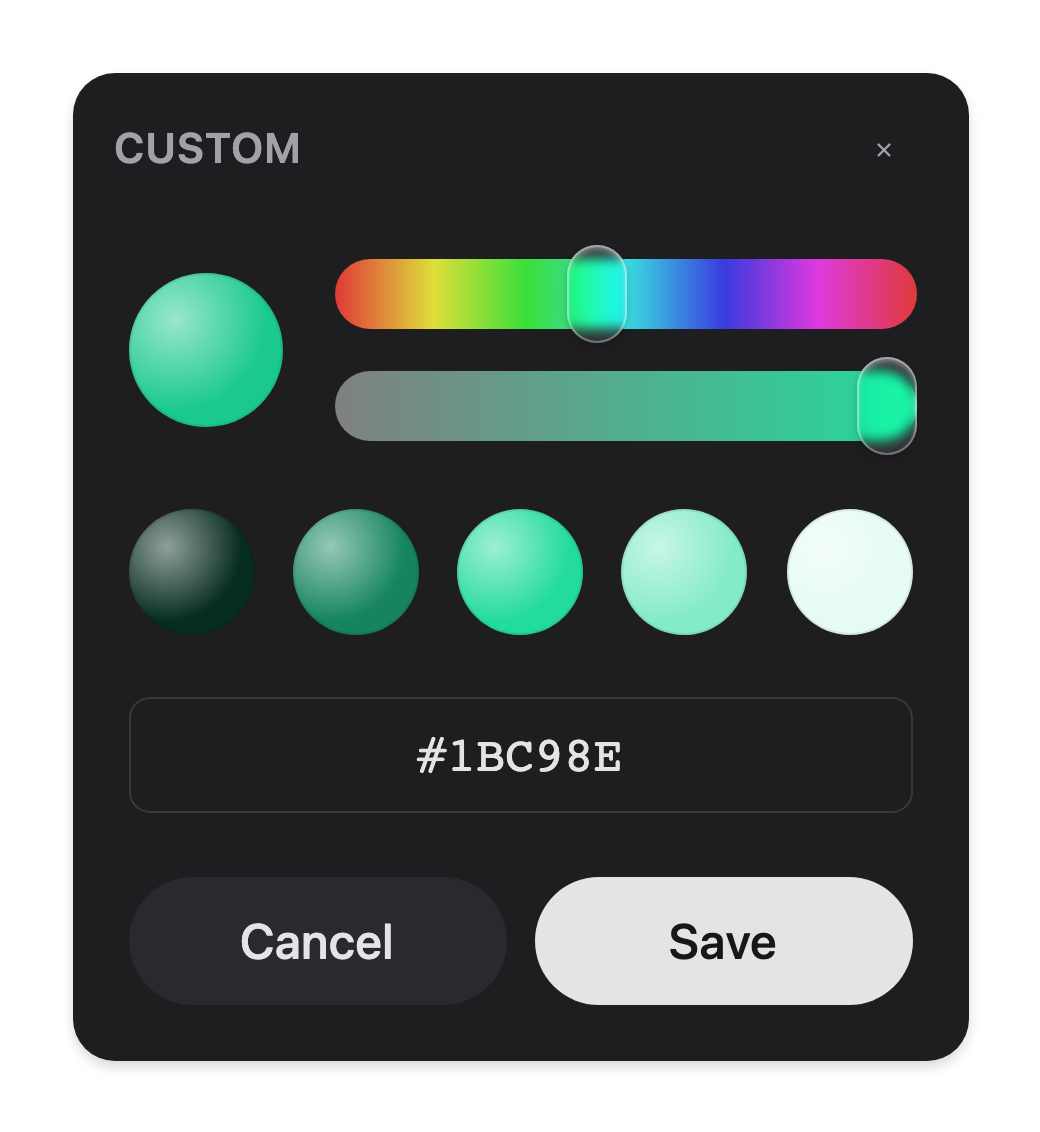
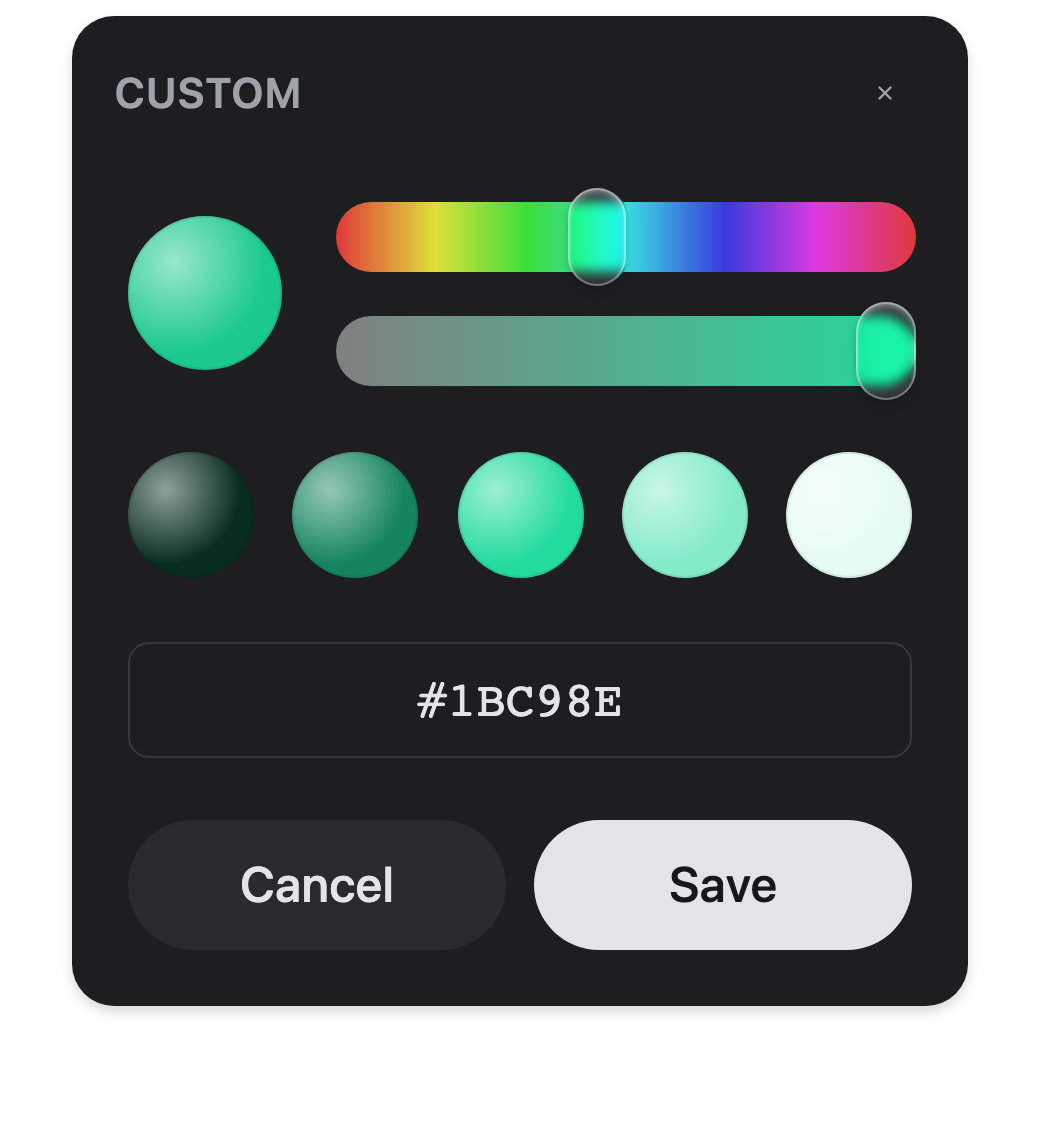
feat(docs): a settings panel to shoot, and five hero candidates
The resting shot was one row of one control, which showed nothing the tray shot
did not. The demo is a small Appearance panel now — three colour rows — because
the picker is a form control and only reads as one when it is sitting among
others.

That also fixes the tray placement. With the trigger against the card's right
edge the tray had nowhere to open into, so `shift()` dragged it back across the
card and it sat there at an angle to everything. Swatch-first, it opens cleanly
into the space beside its row.

Five hero compositions to pick from — trio, duo, layered, spotlight, and a
light/dark split — all generated by the same script. Four will be deleted once
one is chosen.

diff --git a/playground/src/Demo.vue b/playground/src/Demo.vue
@@ -3,27 +3,54 @@ import { ref } from 'vue'
 import { ColorPicker } from 'vue-tray-color-picker'
 
 /**
- * The single scene recorded for the readme GIF. Kept separate from App.vue so
- * the demo can be re-recorded without a scroll through every awkward case.
+ * The scene the readme stills are taken from. Kept apart from App.vue so shots
+ * can be retaken without a scroll through every awkward case.
  */
-const color = ref<string | null>('#1bc98e')
+const accent = ref<string | null>('#1bc98e')
+const surfaceColor = ref<string | null>('#f2f4f6')
+const brand = ref<string | null>('#8e5dca')
 </script>
 
 <template>
   <main class="stage">
-    <div class="card">
+    <!-- A settings panel rather than one lonely row: the picker is a form
+         control, and it reads as one when it is sitting among others. -->
+    <section class="card">
+      <h1 class="card__title">
+        Appearance
+      </h1>
+
       <div class="row">
-        <span class="row__label">Accent colour</span>
+        <span class="row__label">Accent</span>
         <ColorPicker
-          v-model="color"
+          v-model="accent"
           range="full"
           clearable
           default-color="#8a8a8f"
-          recent-key="demo:recent"
+          recent-key="demo:accent"
         />
       </div>
-      <code class="value">{{ color ?? 'null' }}</code>
-    </div>
+
+      <div class="row">
+        <span class="row__label">Surface</span>
+        <ColorPicker
+          v-model="surfaceColor"
+          range="full"
+          clearable
+          default-color="#f2f4f6"
+          recent-key="demo:surface"
+        />
+      </div>
+
+      <div class="row">
+        <span class="row__label">Brand</span>
+        <ColorPicker
+          v-model="brand"
+          range="full"
+          recent-key="demo:brand"
+        />
+      </div>
+    </section>
   </main>
 </template>
 
@@ -67,30 +94,35 @@ html.bare .stage {
 
 .card {
   display: grid;
-  gap: 1rem;
+  gap: 0.25rem;
   width: 20rem;
-  padding: 1.5rem;
+  padding: 1.25rem 1.5rem 1.5rem;
   border: 1px solid light-dark(rgb(0 0 0 / 8%), rgb(255 255 255 / 10%));
   border-radius: 1rem;
   background: light-dark(#fff, #1e1e21);
   box-shadow: 0 12px 32px rgb(0 0 0 / 8%);
 }
 
+.card__title {
+  margin-bottom: 0.5rem;
+  font-size: 1rem;
+  font-weight: 600;
+  letter-spacing: -0.01em;
+}
+
+/* Swatch first. With the trigger against the card's right edge the tray has
+   nowhere to open into and gets shifted back across the card; from the left it
+   opens cleanly into the space beside it. */
 .row {
   display: flex;
   align-items: center;
-  justify-content: space-between;
-  gap: 1rem;
+  gap: 0.875rem;
+  padding: 0.5rem 0;
 }
 
 .row__label {
   font-size: 0.9375rem;
-  font-weight: 500;
-}
-
-.value {
-  color: light-dark(#71717a, #a1a1aa);
-  font-size: 0.8125rem;
-  font-family: ui-monospace, monospace;
+  font-weight: 450;
+  color: light-dark(#3f3f46, #d4d4d8);
 }
 </style>
